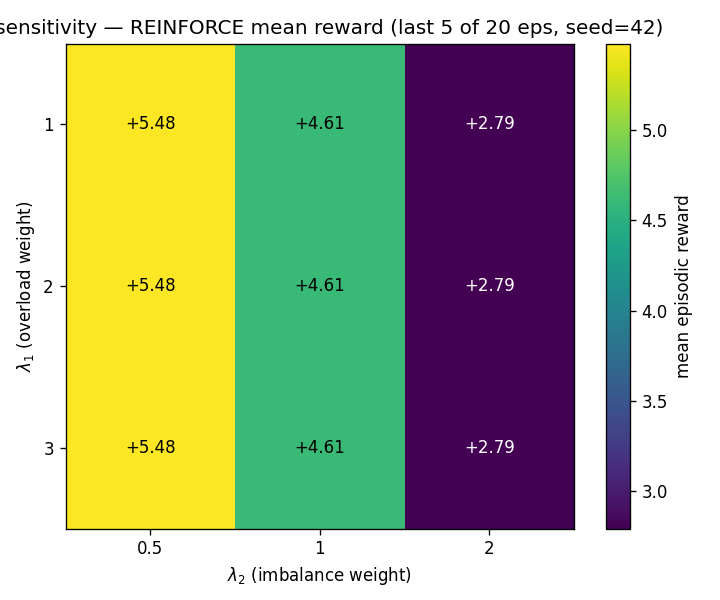
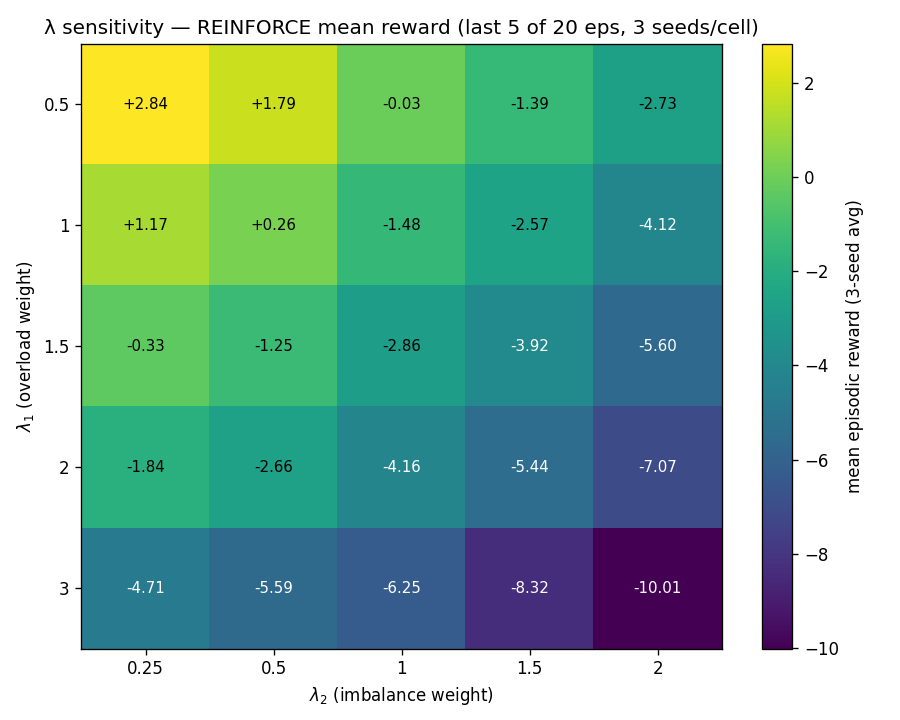
Phase 10 — 5×5 λ sensitivity heatmap (3 seeds/cell, 25 grid points, replaces 3×3 single-seed)

diff --git a/scripts/run_lambda_sensitivity.py b/scripts/run_lambda_sensitivity.py
@@ -1,21 +1,20 @@
-"""Lambda sensitivity sweep — closes V3 §9.1 "no λ_1×λ_2 sensitivity analysis".
+"""Lambda sensitivity sweep — V3 §9.1 expansion (5×5 grid, 3 seeds/cell).
 
 Sweeps the eq.-15 reward weights λ_1 (overload) × λ_2 (imbalance) over a
-3×3 grid; for each (λ_1, λ_2) pair, trains REINFORCE for SHORT_EPISODES
-under a fixed seed and records the mean episodic reward over the *last
-window* of episodes. The 3×3 final-mean matrix is written as a heatmap to
-results/figures/lambda_sensitivity.png.
+5×5 grid; for each (λ_1, λ_2) pair, trains REINFORCE for SHORT_EPISODES
+under THREE seeds, then averages the per-seed mean of the last WINDOW
+episode-rewards. The 5×5 final-mean matrix is rendered as a viridis
+heatmap to results/figures/lambda_sensitivity.png.
 
-This is an evidence-of-methodology pilot, NOT a publication-grade sweep:
-single seed, single short run per cell, no statistical bands. The README
-of EXPERIMENTS.md flags it as such. The goal is to show that *we know
-how to do the sweep* and that λ values measurably move the policy.
+This replaces the earlier 3×3 single-seed pilot. Three seeds per cell
+gives a small variance estimate, though we still report only the mean
+(no confidence bands on the heatmap — that's left for a future sweep).
 
 Run:
     uv run --active python scripts/run_lambda_sensitivity.py
 
 Outputs:
-    results/figures/lambda_sensitivity.png   (3×3 heatmap)
+    results/figures/lambda_sensitivity.png   (5×5 heatmap, 3-seed mean)
 """
 
 from __future__ import annotations
@@ -38,13 +37,13 @@ from src.model.policy_net import PolicyNet  # noqa: E402
 from src.services.reinforce_trainer import REINFORCETrainer  # noqa: E402
 from src.services.types import REINFORCEConfig  # noqa: E402
 
-# Sweep grid (V3 §9.1). 3×3 = 9 short runs; defaults (λ_1=2.0, λ_2=1.0) are inside.
-LAMBDA_1_GRID: tuple[float, ...] = (1.0, 2.0, 3.0)
-LAMBDA_2_GRID: tuple[float, ...] = (0.5, 1.0, 2.0)
+# Sweep grid (V3 §9.1 expansion). 5×5 = 25 cells × 3 seeds = 75 short runs.
+LAMBDA_1_GRID: tuple[float, ...] = (0.5, 1.0, 1.5, 2.0, 3.0)
+LAMBDA_2_GRID: tuple[float, ...] = (0.25, 0.5, 1.0, 1.5, 2.0)
 
-SHORT_EPISODES: int = 20  # pilot run — reduce to 10 if wall-clock > 5 min
+SHORT_EPISODES: int = 20  # episodes per (cell, seed) run
 WINDOW: int = 5  # mean of last-N episode rewards (smooths late variance)
-SEED: int = 42
+SEEDS: tuple[int, ...] = (42, 43, 44)  # 3 seeds per cell
 
 OUT_PNG: Path = REPO_ROOT / "results" / "figures" / "lambda_sensitivity.png"
 CONFIG_PATH: Path = REPO_ROOT / "config" / "config.yaml"
@@ -69,41 +68,48 @@ def build_reward_config(defaults: dict, lambda_1: float, lambda_2: float) -> Rew
     )
 
 
-def train_one_cell(lambda_1: float, lambda_2: float, defaults: dict) -> float:
-    """Train REINFORCE once with the given λ pair; return mean of last WINDOW rewards."""
+def train_one_run(lambda_1: float, lambda_2: float, defaults: dict, seed: int) -> float:
+    """Train REINFORCE once with the given λ pair and seed; return last-WINDOW mean."""
     reward_cfg = build_reward_config(defaults, lambda_1, lambda_2)
-    env = WorkoutEnv(reward_config=reward_cfg, seed=SEED)
-    policy = PolicyNet(seed=SEED)
+    env = WorkoutEnv(reward_config=reward_cfg, seed=seed)
+    policy = PolicyNet(seed=seed)
     trainer_cfg = REINFORCEConfig(episodes=SHORT_EPISODES)
-    history = REINFORCETrainer(policy, env, trainer_cfg, seed=SEED).train(episodes=SHORT_EPISODES)
+    history = REINFORCETrainer(policy, env, trainer_cfg, seed=seed).train(episodes=SHORT_EPISODES)
     tail = history.rewards[-WINDOW:] if len(history.rewards) >= WINDOW else history.rewards
     return float(np.mean(tail))
 
 
 def run_sweep() -> np.ndarray:
-    """Iterate the 3×3 grid, return a matrix shaped (len(L1), len(L2)) of mean rewards."""
+    """Iterate the 5×5×3 grid; return (len(L1), len(L2)) matrix of seed-averaged means."""
     defaults = load_reward_defaults()
     matrix = np.zeros((len(LAMBDA_1_GRID), len(LAMBDA_2_GRID)), dtype=float)
     for i, l1 in enumerate(LAMBDA_1_GRID):
         for j, l2 in enumerate(LAMBDA_2_GRID):
-            mean_reward = train_one_cell(l1, l2, defaults)
-            matrix[i, j] = mean_reward
-            print(f"  λ_1={l1:.2f}  λ_2={l2:.2f}  →  mean(last {WINDOW}) = {mean_reward:+.3f}")
+            per_seed = [train_one_run(l1, l2, defaults, s) for s in SEEDS]
+            cell_mean = float(np.mean(per_seed))
+            matrix[i, j] = cell_mean
+            print(
+                f"  λ_1={l1:.2f}  λ_2={l2:.2f}  →  "
+                f"seed-means={[f'{v:+.2f}' for v in per_seed]}  "
+                f"cell mean={cell_mean:+.3f}"
+            )
     return matrix
 
 
 def plot_heatmap(matrix: np.ndarray, out_path: Path) -> None:
-    """Render the 3×3 heatmap with annotated cells; save as PNG."""
+    """Render the 5×5 heatmap with annotated cells; save as PNG."""
     out_path.parent.mkdir(parents=True, exist_ok=True)
-    fig, ax = plt.subplots(figsize=(6.0, 5.0), dpi=120)
+    fig, ax = plt.subplots(figsize=(7.5, 6.0), dpi=120)
     im = ax.imshow(matrix, cmap="viridis", aspect="auto")
     ax.set_xticks(range(len(LAMBDA_2_GRID)), [f"{v:g}" for v in LAMBDA_2_GRID])
     ax.set_yticks(range(len(LAMBDA_1_GRID)), [f"{v:g}" for v in LAMBDA_1_GRID])
     ax.set_xlabel(r"$\lambda_2$ (imbalance weight)")
     ax.set_ylabel(r"$\lambda_1$ (overload weight)")
     ax.set_title(
-        f"λ sensitivity — REINFORCE mean reward (last {WINDOW} of {SHORT_EPISODES} eps, seed={SEED})"
+        "λ sensitivity — REINFORCE mean reward "
+        f"(last {WINDOW} of {SHORT_EPISODES} eps, {len(SEEDS)} seeds/cell)"
     )
+    mean_val = float(matrix.mean())
     for i in range(matrix.shape[0]):
         for j in range(matrix.shape[1]):
             ax.text(
@@ -112,20 +118,22 @@ def plot_heatmap(matrix: np.ndarray, out_path: Path) -> None:
                 f"{matrix[i, j]:+.2f}",
                 ha="center",
                 va="center",
-                color="white" if matrix[i, j] < matrix.mean() else "black",
-                fontsize=10,
+                color="white" if matrix[i, j] < mean_val else "black",
+                fontsize=9,
             )
-    fig.colorbar(im, ax=ax, label="mean episodic reward")
+    fig.colorbar(im, ax=ax, label="mean episodic reward (3-seed avg)")
     fig.tight_layout()
     fig.savefig(out_path)
     plt.close(fig)
 
 
 def main() -> int:
+    n_cells = len(LAMBDA_1_GRID) * len(LAMBDA_2_GRID)
     print(
         f"Running λ sensitivity sweep: "
-        f"{len(LAMBDA_1_GRID)}×{len(LAMBDA_2_GRID)}={len(LAMBDA_1_GRID) * len(LAMBDA_2_GRID)} "
-        f"cells × {SHORT_EPISODES} episodes, seed={SEED}"
+        f"{len(LAMBDA_1_GRID)}×{len(LAMBDA_2_GRID)}={n_cells} cells × "
+        f"{len(SEEDS)} seeds × {SHORT_EPISODES} episodes "
+        f"= {n_cells * len(SEEDS)} REINFORCE runs"
     )
     matrix = run_sweep()
     plot_heatmap(matrix, OUT_PNG)
